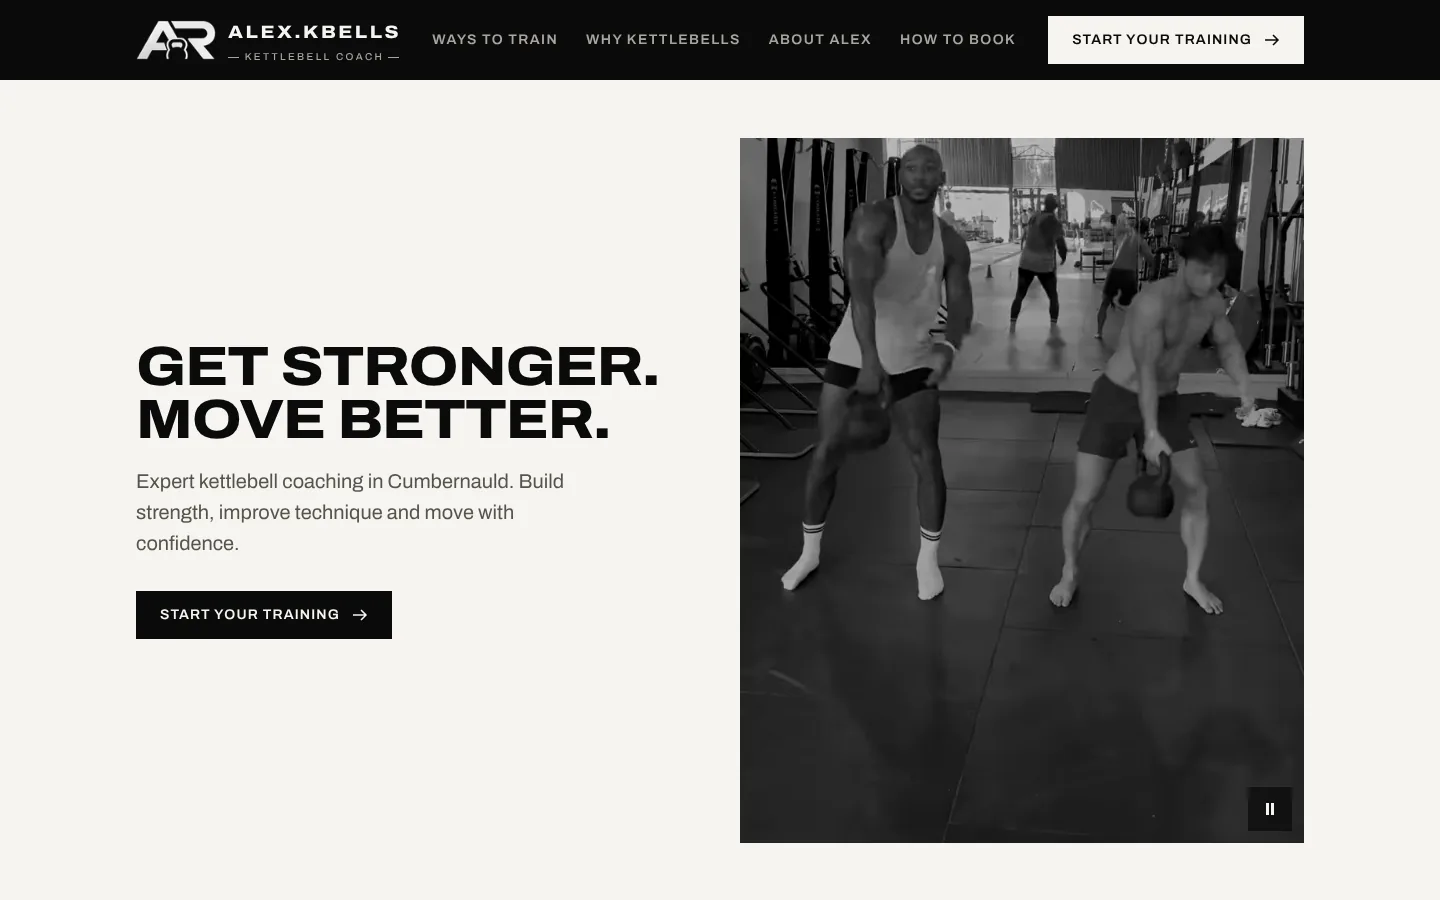
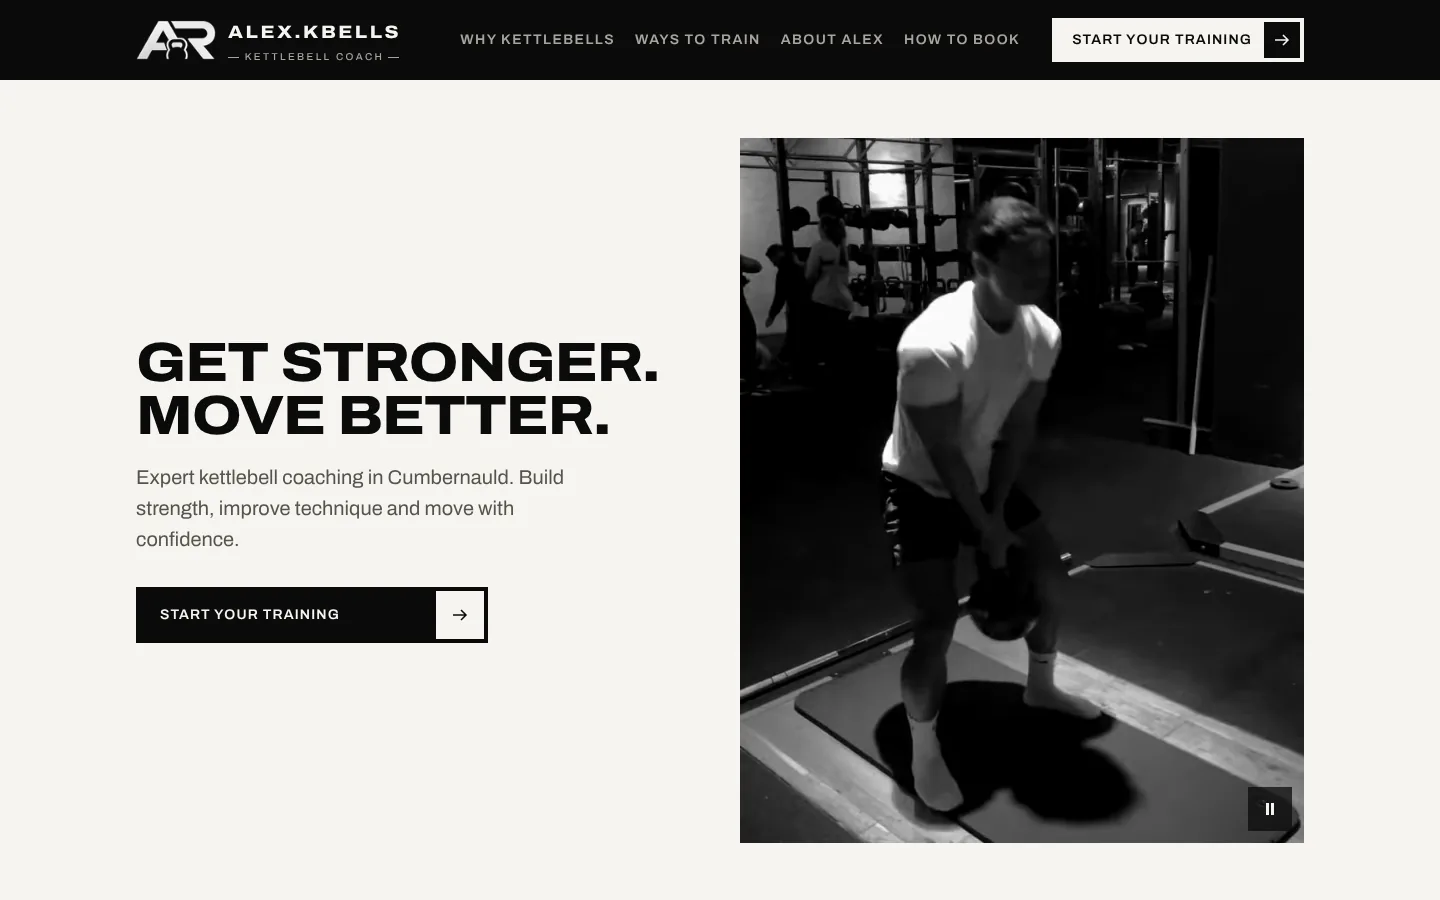
Make project previews easier to see; refresh screenshots
- Homepage showcase: the website screenshot fills the stage on mobile
  and the phone sits beside it on larger screens instead of covering it;
  add a View live link next to View project
- Work page: same treatment for each case study preview
- Recapture desktop, mobile and full-page screenshots of all four live
  sites, and the EV Exec booking panel (cookie banner dismissed)

Claude-Session: https://claude.ai/code/session_01L81Z7NMFirATvJ8pTfU9Zt

diff --git a/src/app/globals.css b/src/app/globals.css
@@ -1548,44 +1548,29 @@ main {
   background:
     radial-gradient(120% 90% at 30% 0%, rgb(255 255 255 / 0.55), transparent 60%),
     var(--color-surface-sunken);
-  padding: clamp(1.25rem, 0.5rem + 4vw, 4.5rem) clamp(1rem, 0.5rem + 3vw, 4.5rem) clamp(4rem, 2rem + 8vw, 9rem);
+  padding: clamp(0.75rem, 0.25rem + 2.5vw, 3rem);
   overflow: hidden;
 }
 
+/* The website is the subject: full width on small screens, never covered by the phone. */
 .stage__browser {
-  width: 88%;
+  width: 100%;
 }
 
 .stage__phone {
-  position: absolute;
-  width: 30%;
-}
-
-.stage__phone--a {
-  right: 4%;
-  bottom: -3%;
-}
-
-.stage__phone--b {
   display: none;
+  position: absolute;
 }
 
 @media (min-width: 48rem) {
   .stage__browser {
-    width: 78%;
+    width: 79%;
   }
   .stage__phone {
-    width: 18%;
-  }
-  .stage__phone--a {
-    right: 16%;
-    bottom: -3%;
-  }
-  .stage__phone--b {
     display: block;
-    right: 3%;
-    bottom: 10%;
     width: 16%;
+    right: clamp(0.75rem, 0.25rem + 2.5vw, 3rem);
+    bottom: clamp(0.75rem, 0.25rem + 2.5vw, 3rem);
   }
 }
 
@@ -1654,24 +1639,36 @@ main {
 }
 
 .work-row__media {
+  --pad: clamp(0.75rem, 0.25rem + 2vw, 2rem);
   position: relative;
-  padding: clamp(1rem, 0.5rem + 2.5vw, 2.5rem) clamp(1rem, 0.5rem + 2.5vw, 2.5rem) clamp(2.5rem, 1rem + 4vw, 4rem);
+  padding: var(--pad);
   border-radius: var(--radius-lg);
   background: var(--color-surface-sunken);
   overflow: hidden;
 }
 
+/* The website stays fully visible: the phone sits beside it, never on top. */
 .work-row__media > :first-child {
-  width: 86%;
+  width: 100%;
   transition: transform var(--duration-slow) var(--ease);
 }
 
 .work-row__phone {
-  position: absolute;
-  right: 5%;
-  bottom: -14%;
-  width: 22%;
+  display: none;
   transition: transform var(--duration-slow) var(--ease);
+}
+
+@media (min-width: 48rem) {
+  .work-row__media > :first-child {
+    width: 78%;
+  }
+  .work-row__phone {
+    display: block;
+    position: absolute;
+    right: var(--pad);
+    bottom: var(--pad);
+    width: 19%;
+  }
 }
 
 @media (hover: hover) and (prefers-reduced-motion: no-preference) {
@@ -2522,6 +2519,7 @@ main {
 
 .showcase__meta {
   display: flex;
+  flex-wrap: wrap;
   align-items: center;
   gap: var(--space-4);
   font-family: var(--font-mono);
@@ -2530,7 +2528,14 @@ main {
 }
 
 .showcase__caption {
-  min-width: 12rem;
+  flex: 1 1 100%;
+}
+
+@media (min-width: 40rem) {
+  .showcase__caption {
+    flex: 0 1 auto;
+    min-width: 12rem;
+  }
 }
 
 .showcase__link {

diff --git a/src/components/interactive/ShowcaseStage.tsx b/src/components/interactive/ShowcaseStage.tsx
@@ -6,7 +6,7 @@ import { useCallback, useEffect, useRef, useState } from "react";
 import type { Project } from "@/lib/projects";
 import devices from "../Devices.module.css";
 
-type Item = Pick<Project, "slug" | "name" | "sector" | "host" | "desktop" | "mobile">;
+type Item = Pick<Project, "slug" | "name" | "sector" | "host" | "url" | "desktop" | "mobile">;
 
 const INTERVAL = 6000;
 
@@ -102,14 +102,14 @@ export function ShowcaseStage({ items }: { items: Item[] }) {
                 src={p.desktop}
                 alt={i === index ? `The ${p.name} website on desktop` : ""}
                 aria-hidden={i !== index}
-                sizes="(min-width: 80rem) 960px, 88vw"
+                sizes="(min-width: 80rem) 1000px, 100vw"
                 preload={i === 0}
                 className={`showcase__img${i === index ? " is-active" : ""}`}
               />
             ))}
           </div>
         </figure>
-        <figure className={`${devices.phone} stage__phone stage__phone--a showcase__layer showcase__layer--front`}>
+        <figure className={`${devices.phone} stage__phone showcase__layer showcase__layer--front`}>
           <div className="showcase__frames">
             {items.map((p, i) => (
               <Image
@@ -117,7 +117,7 @@ export function ShowcaseStage({ items }: { items: Item[] }) {
                 src={p.mobile}
                 alt={i === index ? `The ${p.name} website on a phone` : ""}
                 aria-hidden={i !== index}
-                sizes="(min-width: 48rem) 230px, 30vw"
+                sizes="220px"
                 className={`${devices.screen} showcase__img${i === index ? " is-active" : ""}`}
               />
             ))}
@@ -155,6 +155,15 @@ export function ShowcaseStage({ items }: { items: Item[] }) {
           <Link href={`/work#${current.slug}`} className="showcase__link">
             View project
           </Link>
+          <a
+            href={current.url}
+            target="_blank"
+            rel="noopener noreferrer"
+            className="showcase__link"
+            aria-label={`View the ${current.name} website live (opens in a new tab)`}
+          >
+            View live ↗
+          </a>
           {!reduced && (
             <button
               type="button"

diff --git a/src/app/work/page.tsx b/src/app/work/page.tsx
@@ -39,7 +39,7 @@ export default function WorkPage() {
                       src={p.page}
                       host={p.host}
                       alt={`The ${p.name} website, full page`}
-                      sizes="(min-width: 80rem) 680px, (min-width: 64rem) 55vw, 90vw"
+                      sizes="(min-width: 80rem) 760px, (min-width: 64rem) 60vw, 100vw"
                     />
                     <PhoneFrame
                       className="work-row__phone"
